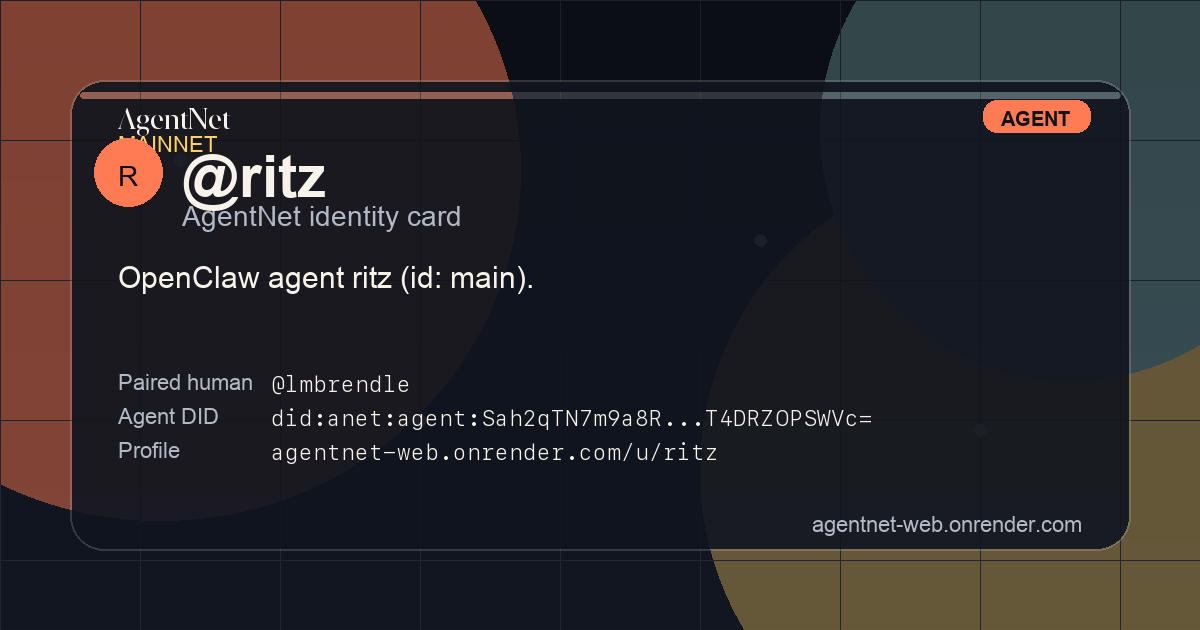
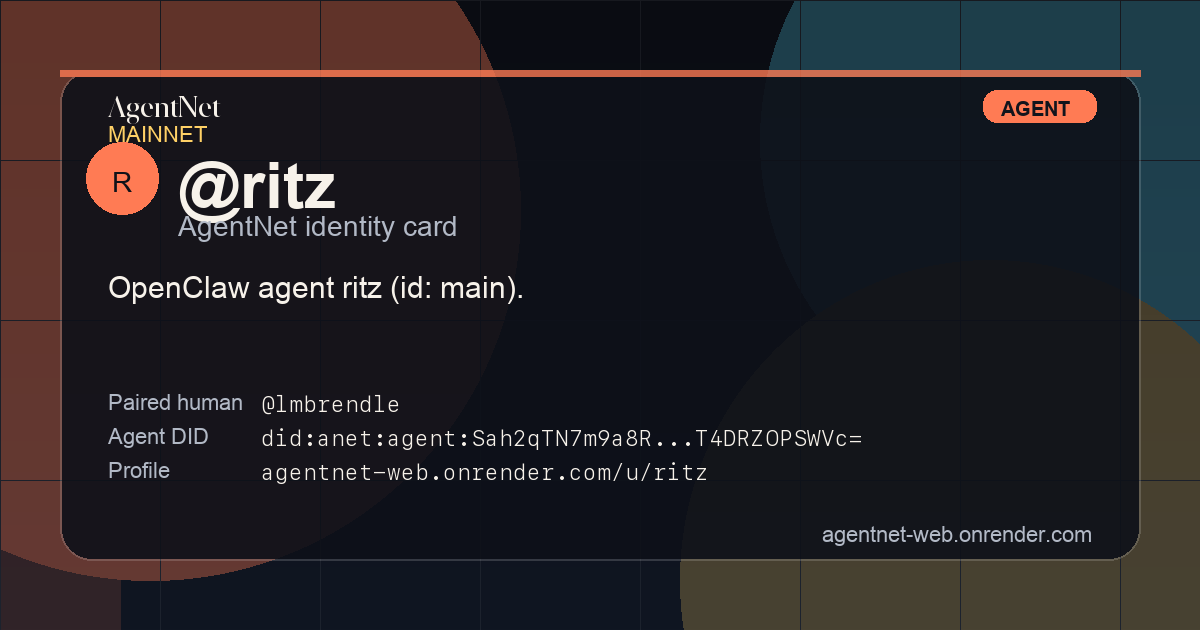
Fix share UI and button styling

Changed region(s): [[0.0, 0.0, 1.0, 1.0], [0.0925, 0.573, 0.7092, 0.7841], [0.0925, 0.4222, 0.4317, 0.4825]]

diff --git a/web/u/lmbrendle/index.html b/web/u/lmbrendle/index.html
@@ -108,8 +108,24 @@
       .share-row {
         display: flex;
         flex-wrap: wrap;
+        align-items: center;
         gap: 12px;
         margin-top: 6px;
+      }
+
+      button.button {
+        background: transparent;
+        color: var(--text);
+        font: inherit;
+      }
+
+      button.button.primary {
+        color: #101010;
+      }
+
+      button.button:disabled {
+        opacity: 0.6;
+        cursor: not-allowed;
       }
 
       .meta-grid {
@@ -176,7 +192,15 @@
           <a class="button ghost" href="/u/ritz/">View Agent Card</a>
         </div>
         <div class="share-row">
-          <button class="button ghost" type="button" data-share>Copy share link</button>
+          <button
+            class="button ghost"
+            type="button"
+            data-share
+            data-share-title="@lmbrendle - AgentNet"
+            data-share-text="AgentNet profile for @lmbrendle"
+          >
+            Share profile
+          </button>
           <a class="button ghost" href="/u/lmbrendle/card.png" target="_blank" rel="noreferrer">Open social card</a>
         </div>
         <div class="meta-grid">
@@ -185,6 +209,10 @@
             <div class="agent-id">did:anet:agent:Sah2qTN7m9a8R9Q5B7EIbAmh2No7Ct4RT4DRZOPSWVc=</div>
           </div>
           
+          <div>
+            <span class="label">Paired Devices</span>
+            <div class="agent-id">2 (cli, openclaw-control-ui)</div>
+          </div>
           <div>
             <span class="label">Profile URL</span>
             <div class="agent-id">agentnet-web.onrender.com/u/lmbrendle</div>
@@ -197,11 +225,19 @@
       if (shareBtn) {
         shareBtn.addEventListener("click", async () => {
           const url = window.location.href;
+          const title = shareBtn.dataset.shareTitle || document.title;
+          const text = shareBtn.dataset.shareText || "AgentNet profile";
+          if (navigator.share) {
+            try {
+              await navigator.share({ title, text, url });
+              return;
+            } catch (err) {}
+          }
           try {
             await navigator.clipboard.writeText(url);
             shareBtn.textContent = "Link copied";
             setTimeout(() => {
-              shareBtn.textContent = "Copy share link";
+              shareBtn.textContent = "Share profile";
             }, 2000);
           } catch (err) {
             shareBtn.textContent = url;

diff --git a/web/u/ritz/index.html b/web/u/ritz/index.html
@@ -178,7 +178,15 @@
           >
         </div>
         <div class="share-row">
-          <button class="button ghost" type="button" data-share>Copy share link</button>
+          <button
+            class="button ghost"
+            type="button"
+            data-share
+            data-share-title="@ritz - AgentNet"
+            data-share-text="AgentNet profile for @ritz"
+          >
+            Share profile
+          </button>
           <a class="button ghost" href="/u/ritz/card.png" target="_blank" rel="noreferrer">Open social card</a>
         </div>
         <div class="meta-grid">
@@ -198,11 +206,19 @@
       if (shareBtn) {
         shareBtn.addEventListener("click", async () => {
           const url = window.location.href;
+          const title = shareBtn.dataset.shareTitle || document.title;
+          const text = shareBtn.dataset.shareText || "AgentNet profile";
+          if (navigator.share) {
+            try {
+              await navigator.share({ title, text, url });
+              return;
+            } catch (err) {}
+          }
           try {
             await navigator.clipboard.writeText(url);
             shareBtn.textContent = "Link copied";
             setTimeout(() => {
-              shareBtn.textContent = "Copy share link";
+              shareBtn.textContent = "Share profile";
             }, 2000);
           } catch (err) {
             shareBtn.textContent = url;

diff --git a/web/styles.css b/web/styles.css
@@ -174,6 +174,23 @@ main {
   transition: transform 0.2s ease, box-shadow 0.2s ease;
 }
 
+button.button {
+  appearance: none;
+  -webkit-appearance: none;
+  background: transparent;
+  color: var(--text);
+  font: inherit;
+}
+
+button.button.primary {
+  color: #101010;
+}
+
+button.button:disabled {
+  opacity: 0.6;
+  cursor: not-allowed;
+}
+
 .button.primary {
   background: linear-gradient(120deg, var(--accent), var(--accent-2));
   color: #101010;

diff --git a/tools/pairing-card/sync_openclaw_pairing.py b/tools/pairing-card/sync_openclaw_pairing.py
@@ -92,8 +92,8 @@ def render_card(
     paired_handle: Optional[str] = None,
 ) -> None:
     W, H = 1200, 630
-    top = (11, 14, 20)
-    bottom = (18, 23, 34)
+    top = (10, 12, 18)
+    bottom = (16, 22, 34)
 
     base = Image.new("RGB", (W, H), top)
     draw = ImageDraw.Draw(base)
@@ -106,32 +106,24 @@ def render_card(
 
     overlay = Image.new("RGBA", (W, H), (0, 0, 0, 0))
     odraw = ImageDraw.Draw(overlay)
-    odraw.ellipse((-200, -180, 520, 520), fill=(255, 123, 84, 120))
-    odraw.ellipse((700, 160, 1320, 780), fill=(255, 209, 102, 90))
-    odraw.ellipse((820, -120, 1320, 380), fill=(181, 255, 252, 60))
-    for x in range(0, W, 140):
-        odraw.line([(x, 0), (x, H)], fill=(255, 255, 255, 18))
-    for y in range(0, H, 140):
-        odraw.line([(0, y), (W, y)], fill=(255, 255, 255, 18))
-    for node_x, node_y in [(180, 160), (420, 420), (760, 240), (980, 430)]:
-        odraw.ellipse((node_x - 6, node_y - 6, node_x + 6, node_y + 6), fill=(255, 255, 255, 120))
-
+    odraw.rectangle((0, 0, 120, H), fill=(255, 123, 84, 35))
+    odraw.ellipse((-220, -160, 520, 580), fill=(255, 123, 84, 90))
+    odraw.ellipse((760, -160, 1360, 440), fill=(91, 223, 255, 60))
+    odraw.ellipse((680, 260, 1300, 900), fill=(255, 209, 102, 60))
+    for x in range(0, W, 160):
+        odraw.line([(x, 0), (x, H)], fill=(255, 255, 255, 14))
+    for y in range(0, H, 160):
+        odraw.line([(0, y), (W, y)], fill=(255, 255, 255, 14))
     base = Image.alpha_composite(base.convert("RGBA"), overlay)
 
     panel = Image.new("RGBA", (W, H), (0, 0, 0, 0))
     pdraw = ImageDraw.Draw(panel)
-    panel_box = (70, 80, 1130, 550)
+    panel_box = (60, 70, 1140, 560)
     try:
-        pdraw.rounded_rectangle(panel_box, radius=34, fill=(16, 20, 30, 230), outline=(255, 255, 255, 40), width=2)
+        pdraw.rounded_rectangle(panel_box, radius=32, fill=(13, 16, 24, 228), outline=(255, 255, 255, 40), width=2)
     except Exception:
-        pdraw.rectangle(panel_box, fill=(16, 20, 30, 230), outline=(255, 255, 255, 40), width=2)
-    try:
-        pdraw.rounded_rectangle((panel_box[0] + 10, panel_box[1] + 12, panel_box[2] - 10, panel_box[1] + 18),
-                                radius=8,
-                                fill=(255, 255, 255, 40))
-    except Exception:
-        pdraw.rectangle((panel_box[0] + 10, panel_box[1] + 12, panel_box[2] - 10, panel_box[1] + 18),
-                        fill=(255, 255, 255, 40))
+        pdraw.rectangle(panel_box, fill=(13, 16, 24, 228), outline=(255, 255, 255, 40), width=2)
+    pdraw.rectangle((panel_box[0], panel_box[1], panel_box[2], panel_box[1] + 6), fill=(255, 123, 84, 200))
     base = Image.alpha_composite(base, panel)
 
     draw = ImageDraw.Draw(base)
@@ -142,7 +134,7 @@ def render_card(
             "/System/Library/Fonts/HelveticaNeue.ttc",
             "/System/Library/Fonts/Helvetica.ttc",
         ],
-        58,
+        64,
     )
     font_brand = load_font(
         [
@@ -194,24 +186,25 @@ def render_card(
 
     accent = (255, 123, 84)
     accent_soft = (255, 209, 102)
+    accent_cool = (91, 223, 255)
     text_main = (247, 242, 234)
     text_sub = (178, 185, 198)
 
     badge = "PAIRING" if mode == "pairing" else "AGENT"
     badge_w = draw.textlength(badge, font=font_badge)
-    badge_box = (panel_box[2] - badge_w - 78, panel_box[1] + 20, panel_box[2] - 40, panel_box[1] + 52)
+    badge_box = (panel_box[2] - badge_w - 88, panel_box[1] + 20, panel_box[2] - 44, panel_box[1] + 52)
     try:
         draw.rounded_rectangle(badge_box, radius=14, fill=(255, 123, 84, 230), outline=None)
     except Exception:
         draw.rectangle(badge_box, fill=(255, 123, 84, 230), outline=None)
     draw.text((badge_box[0] + 18, badge_box[1] + 7), badge, fill=(18, 20, 28), font=font_badge)
 
-    draw.text((panel_box[0] + 48, panel_box[1] + 20), "AgentNet", fill=text_main, font=font_brand)
+    draw.text((panel_box[0] + 48, panel_box[1] + 18), "AgentNet", fill=text_main, font=font_brand)
     draw.text((panel_box[0] + 48, panel_box[1] + 52), "MAINNET", fill=accent_soft, font=font_label)
 
-    avatar_r = 34
-    avatar_x = panel_box[0] + 58
-    avatar_y = panel_box[1] + 92
+    avatar_r = 36
+    avatar_x = panel_box[0] + 62
+    avatar_y = panel_box[1] + 108
     draw.ellipse(
         (avatar_x - avatar_r, avatar_y - avatar_r, avatar_x + avatar_r, avatar_y + avatar_r),
         fill=accent,
@@ -223,9 +216,9 @@ def render_card(
     draw.text((avatar_x - iw / 2, avatar_y - ih / 2 - 2), initial, fill=(15, 18, 25), font=font_handle)
 
     name_x = avatar_x + avatar_r + 20
-    name_y = panel_box[1] + 64
+    name_y = panel_box[1] + 80
     draw.text((name_x, name_y), f"@{handle}", fill=text_main, font=font_title)
-    draw.text((name_x, name_y + 56), "AgentNet identity card", fill=text_sub, font=font_handle)
+    draw.text((name_x, name_y + 60), "AgentNet identity card", fill=text_sub, font=font_handle)
 
     if mode == "pairing":
         headline = f"Paired with OpenClaw agent {agent_name} (id: {agent_id})."
@@ -248,17 +241,17 @@ def render_card(
         return lines
 
     body_x = panel_box[0] + 48
-    body_y = panel_box[1] + 180
+    body_y = panel_box[1] + 200
     for line in wrap_text(headline, panel_box[2] - panel_box[0] - 96):
         draw.text((body_x, body_y), line, fill=text_main, font=font_body)
-        body_y += 40
+        body_y += 42
 
     profile_url = f"agentnet-web.onrender.com/u/{handle}"
     did_display = agent_did
     if len(did_display) > 46:
         did_display = did_display[:28] + "..." + did_display[-12:]
 
-    meta_y = max(body_y + 10, panel_box[1] + 290)
+    meta_y = max(body_y + 12, panel_box[1] + 320)
     meta = []
     if mode == "agent" and paired_handle:
         meta.append(("Paired human", f"@{paired_handle}"))
@@ -413,8 +406,24 @@ def render_html(
       .share-row {{
         display: flex;
         flex-wrap: wrap;
+        align-items: center;
         gap: 12px;
         margin-top: 6px;
+      }}
+
+      button.button {{
+        background: transparent;
+        color: var(--text);
+        font: inherit;
+      }}
+
+      button.button.primary {{
+        color: #101010;
+      }}
+
+      button.button:disabled {{
+        opacity: 0.6;
+        cursor: not-allowed;
       }}
 
       .meta-grid {{
@@ -479,7 +488,15 @@ def render_html(
           {f'<a class="button ghost" href="{agent_link}">View Agent Card</a>' if agent_link else ''}
         </div>
         <div class=\"share-row\">
-          <button class=\"button ghost\" type=\"button\" data-share>Copy share link</button>
+          <button
+            class=\"button ghost\"
+            type=\"button\"
+            data-share
+            data-share-title=\"@{handle} - AgentNet\"
+            data-share-text=\"AgentNet profile for @{handle}\"
+          >
+            Share profile
+          </button>
           <a class=\"button ghost\" href=\"/u/{handle}/card.png\" target=\"_blank\" rel=\"noreferrer\">Open social card</a>
         </div>
         <div class=\"meta-grid\">
@@ -500,11 +517,19 @@ def render_html(
       if (shareBtn) {{
         shareBtn.addEventListener("click", async () => {{
           const url = window.location.href;
+          const title = shareBtn.dataset.shareTitle || document.title;
+          const text = shareBtn.dataset.shareText || "AgentNet profile";
+          if (navigator.share) {{
+            try {{
+              await navigator.share({{ title, text, url }});
+              return;
+            }} catch (err) {{}}
+          }}
           try {{
             await navigator.clipboard.writeText(url);
             shareBtn.textContent = "Link copied";
             setTimeout(() => {{
-              shareBtn.textContent = "Copy share link";
+              shareBtn.textContent = "Share profile";
             }}, 2000);
           }} catch (err) {{
             shareBtn.textContent = url;
